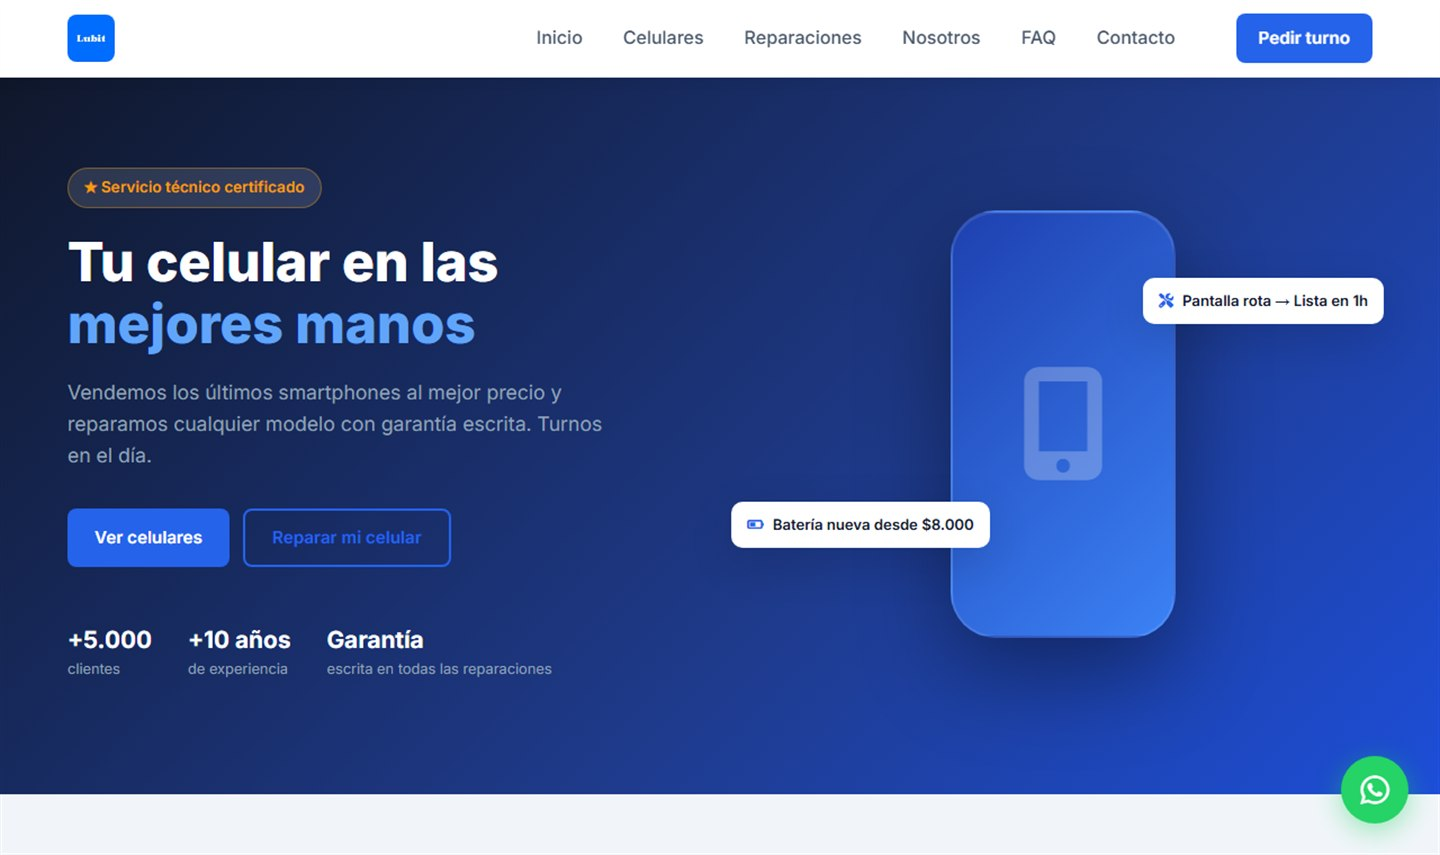
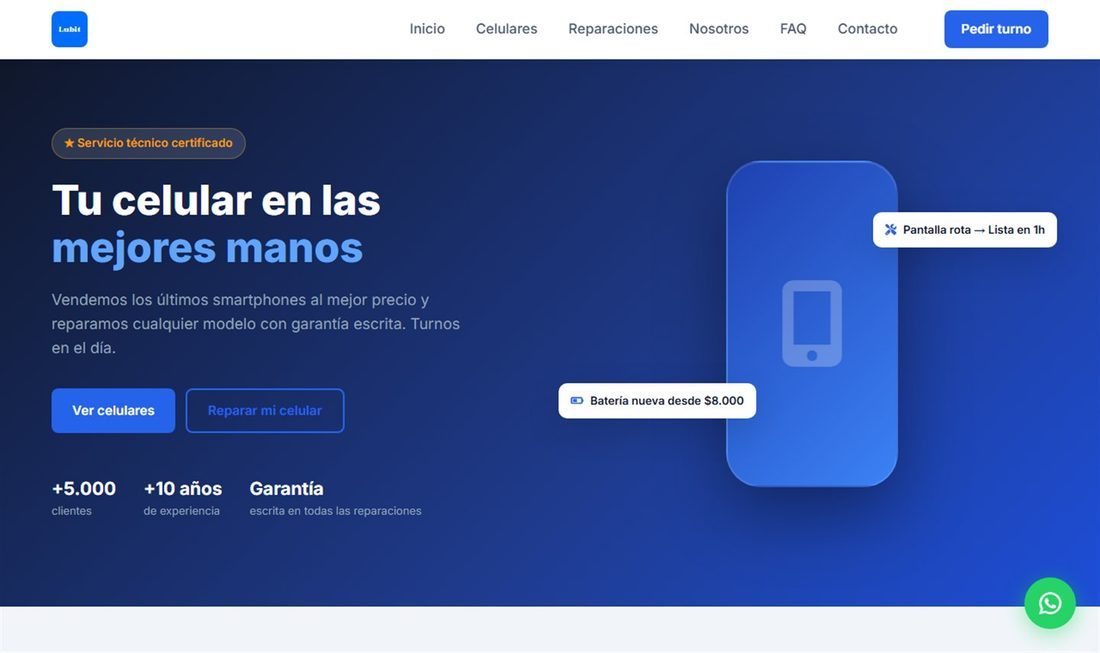
El portfolio pesaba 1 MB y el lead lo abre con datos móviles
Los prospectos llegan por WhatsApp, desde el celular y en la calle. Ahí
el portfolio eran 1026 KB de PNG a 1882px para mostrarse en tarjetas de
534. Ahora son 153 KB en WebP, con JPG de respaldo para el navegador que
no lo soporte.

Las capturas pasan a tener nombre: "Captura de pantalla (148).png" era
viejo-karma, y el nombre con espacios y paréntesis viajaba escapado en
cada URL.

La preview de WhatsApp queda con imagen propia (og-lubit.jpg, 1200px de
ancho, que es el mínimo que pide). Antes apuntaba a la misma captura del
portfolio, así que achicarla para la página habría degradado la preview
que se ve al pegar el link en un DM.

Se van cuatro archivos que ya no referenciaba nadie: mockup-lubit.png y
los tres SVG de pizzería, ropa y stikers.

Verificado en el navegador: las 7 imágenes cargan en WebP, sin rotas y
sin errores de consola.

diff --git a/index.html b/index.html
@@ -22,9 +22,9 @@
   <meta property="og:url" content="https://joedev10.github.io/" />
   <meta property="og:title" content="Deploy — Páginas Web para Emprendedores en 48hs" />
   <meta property="og:description" content="Tu negocio vende solo, incluso cuando no estás. Páginas web en 48hs para emprendedores. Diseño personalizado y hosting incluido." />
-  <meta property="og:image" content="https://joedev10.github.io/img/lubit.jpg" />
-  <meta property="og:image:width" content="1440" />
-  <meta property="og:image:height" content="855" />
+  <meta property="og:image" content="https://joedev10.github.io/img/og-lubit.jpg" />
+  <meta property="og:image:width" content="1200" />
+  <meta property="og:image:height" content="712" />
   <meta property="og:image:alt" content="Ejemplo de página web hecha por Deploy: catálogo de celulares con turnos y pedidos por WhatsApp" />
   <meta property="og:site_name" content="Deploy" />
   <meta property="og:locale" content="es_AR" />
@@ -33,7 +33,7 @@
   <meta name="twitter:card" content="summary_large_image" />
   <meta name="twitter:title" content="Deploy — Páginas Web para Emprendedores en 48hs" />
   <meta name="twitter:description" content="Tu negocio vende solo, incluso cuando no estás. Páginas web en 48hs para emprendedores argentinos." />
-  <meta name="twitter:image" content="https://joedev10.github.io/img/lubit.jpg" />
+  <meta name="twitter:image" content="https://joedev10.github.io/img/og-lubit.jpg" />
 
   <!-- Schema.org: datos estructurados para Google -->
   <script type="application/ld+json">
@@ -263,7 +263,10 @@
       <div class="port-item">
         <div class="port-frame">
           <span class="port-live">En vivo</span>
-          <img src="img/tinta-fundida.jpg" alt="Diseño web para taller de impresión 3D — Tinta Fundida: hero oscuro con cubo wireframe, catálogo de piezas y pedidos a medida por WhatsApp" class="port-img" loading="lazy" width="1440" height="855"/>
+          <picture>
+            <source type="image/webp" srcset="img/tinta-fundida.webp"/>
+            <img src="img/tinta-fundida.jpg" alt="Diseño web para taller de impresión 3D — Tinta Fundida: hero oscuro con cubo wireframe, catálogo de piezas y pedidos a medida por WhatsApp" class="port-img" loading="lazy" decoding="async" width="1440" height="855"/>
+          </picture>
         </div>
         <div class="port-meta">
           <div class="port-head">
@@ -280,7 +283,10 @@
       <div class="port-item">
         <div class="port-frame">
           <span class="port-live">En vivo</span>
-          <img src="img/lubit.jpg" alt="Diseño web para venta y reparación de celulares — Lubit: catálogo de smartphones, turnos y servicio técnico en CABA" class="port-img" loading="lazy" width="1440" height="855"/>
+          <picture>
+            <source type="image/webp" srcset="img/lubit.webp"/>
+            <img src="img/lubit.jpg" alt="Diseño web para venta y reparación de celulares — Lubit: catálogo de smartphones, turnos y servicio técnico en CABA" class="port-img" loading="lazy" decoding="async" width="1100" height="653"/>
+          </picture>
         </div>
         <div class="port-meta">
           <div class="port-head">
@@ -297,7 +303,10 @@
       <div class="port-item">
         <div class="port-frame">
           <span class="port-live">En vivo</span>
-          <img src="img/mockup-heladeria.png" alt="Diseño web para heladería — Pablo Helados: catálogo online de potes, tortas y postres con delivery a domicilio" class="port-img" loading="lazy"/>
+          <picture>
+            <source type="image/webp" srcset="img/pablo-helados.webp"/>
+            <img src="img/pablo-helados.jpg" alt="Diseño web para heladería — Pablo Helados: catálogo online de potes, tortas y postres con delivery a domicilio" class="port-img" loading="lazy" decoding="async" width="1100" height="688"/>
+          </picture>
         </div>
         <div class="port-meta">
           <div class="port-head">
@@ -314,7 +323,10 @@
       <div class="port-item">
         <div class="port-frame">
           <span class="port-done">Entregado</span>
-          <img src="img/tecno-stikers.jpg" alt="Diseño web para tienda de stickers — TecnoStikers: catálogo por categorías temáticas con carrito de compras y pedidos por WhatsApp" class="port-img" loading="lazy" width="1440" height="855"/>
+          <picture>
+            <source type="image/webp" srcset="img/tecno-stikers.webp"/>
+            <img src="img/tecno-stikers.jpg" alt="Diseño web para tienda de stickers — TecnoStikers: catálogo por categorías temáticas con carrito de compras y pedidos por WhatsApp" class="port-img" loading="lazy" decoding="async" width="1100" height="653"/>
+          </picture>
         </div>
         <div class="port-meta">
           <div class="port-head">
@@ -330,7 +342,10 @@
       <div class="port-item">
         <div class="port-frame">
           <span class="port-done">Entregado</span>
-          <img src="img/Captura de pantalla (148).png" alt="Diseño web para tienda de ropa — Viejo Karma: catálogo online con pedidos por WhatsApp" class="port-img" loading="lazy"/>
+          <picture>
+            <source type="image/webp" srcset="img/viejo-karma.webp"/>
+            <img src="img/viejo-karma.jpg" alt="Diseño web para tienda de ropa — Viejo Karma: catálogo online con pedidos por WhatsApp" class="port-img" loading="lazy" decoding="async" width="1100" height="579"/>
+          </picture>
         </div>
         <div class="port-meta">
           <div class="port-head">
@@ -346,7 +361,10 @@
       <div class="port-item">
         <div class="port-frame">
           <span class="port-done">Entregado</span>
-          <img src="img/Captura de pantalla (152).png" alt="Diseño web para barbería — Black Edge: reserva de turnos y contacto por WhatsApp" class="port-img" loading="lazy"/>
+          <picture>
+            <source type="image/webp" srcset="img/black-edge.webp"/>
+            <img src="img/black-edge.jpg" alt="Diseño web para barbería — Black Edge: reserva de turnos y contacto por WhatsApp" class="port-img" loading="lazy" decoding="async" width="1100" height="579"/>
+          </picture>
         </div>
         <div class="port-meta">
           <div class="port-head">
@@ -362,7 +380,10 @@
       <div class="port-item">
         <div class="port-frame">
           <span class="port-done">Entregado</span>
-          <img src="img/Captura de pantalla (154).png" alt="Diseño web para pastelería — Dulce Origen: catálogo de productos y pedidos online" class="port-img" loading="lazy"/>
+          <picture>
+            <source type="image/webp" srcset="img/dulce-origen.webp"/>
+            <img src="img/dulce-origen.jpg" alt="Diseño web para pastelería — Dulce Origen: catálogo de productos y pedidos online" class="port-img" loading="lazy" decoding="async" width="1100" height="577"/>
+          </picture>
         </div>
         <div class="port-meta">
           <div class="port-head">
@@ -826,7 +847,7 @@
       }
       history.push({ role: "assistant", content: accumulated });
     } catch {
-      botBubble.innerHTML = 'Hubo un error al conectar. <a href="https://wa.me/5491144091981?text=Hola%20Deploy!%20Quiero%20una%20p%C3%A1gina%20web" target="_blank" style="color:#c8452a;font-weight:700;display:block;margin-top:6px;">Escribime directo por WhatsApp →</a>';
+      botBubble.innerHTML = 'Hubo un error al conectar. <a href="https://wa.me/5491144091981?text=Hola%20Deploy!%20Quiero%20una%20p%C3%A1gina%20web" target="_blank" rel="noopener noreferrer" style="color:#c8452a;font-weight:700;display:block;margin-top:6px;">Escribime directo por WhatsApp →</a>';
       history.pop();
     } finally {
       isStreaming = false; sendBtn.disabled = false; input.focus();

diff --git a/styles.css b/styles.css
@@ -452,6 +452,7 @@ section > h2 {
   border: 1px solid var(--rule-2);
   margin-bottom: 18px;
 }
+.port-frame picture { display: block; width: 100%; height: 100%; }
 .port-img {
   width: 100%; height: 100%;
   object-fit: cover; object-position: top center;
